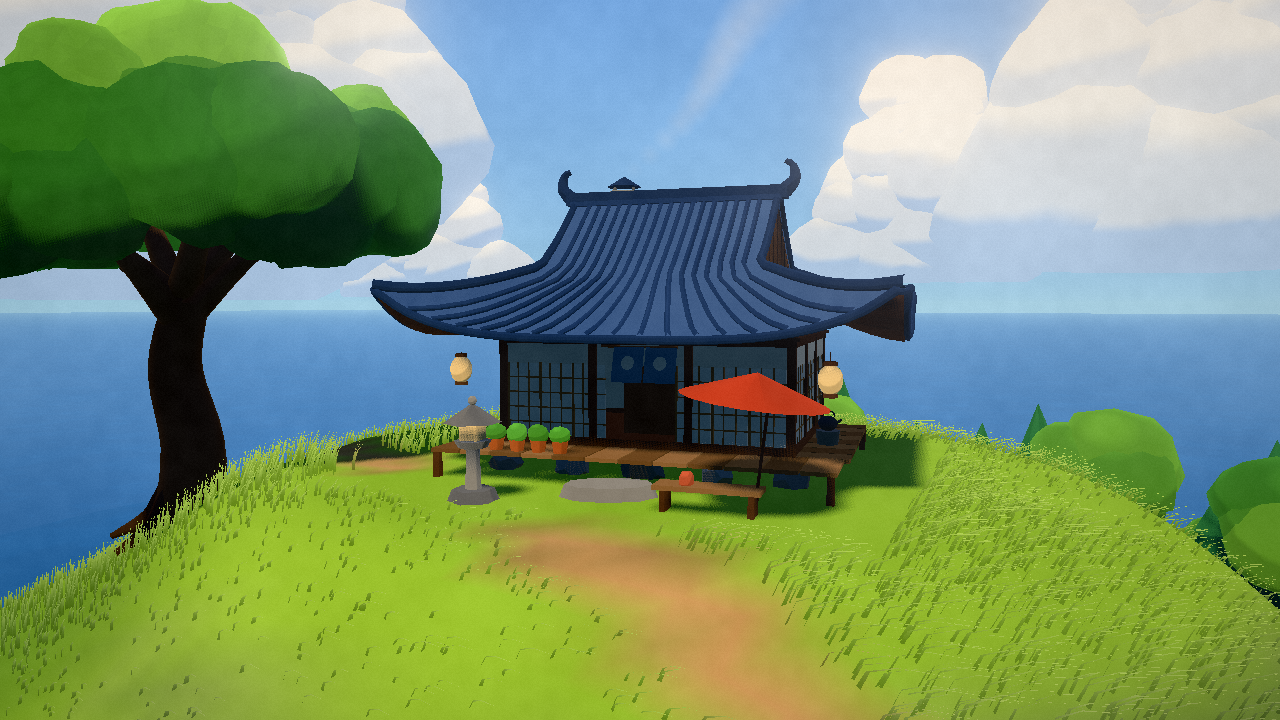
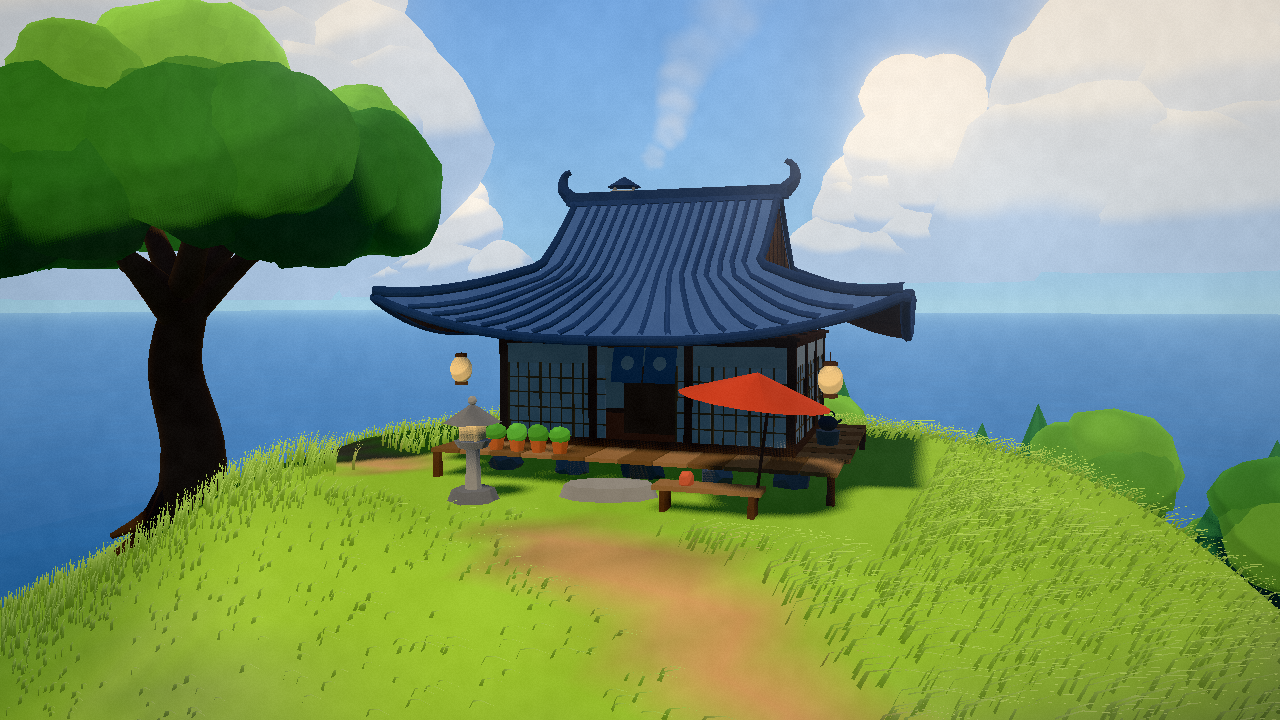
3D Phase 0: softer roof sweep, cleaner eave trim, soft clouds + smoke; fresh review shots

diff --git a/src/main.ts b/src/main.ts
@@ -132,21 +132,26 @@ import('./lib/geo').then(({ blob, paint, merge, place }) => {
 // chimney smoke: soft billboards rising and leaning with the wind
 const smokeTex = (() => {
   const c = document.createElement('canvas');
-  c.width = c.height = 64;
+  c.width = c.height = 128;
   const g = c.getContext('2d')!;
-  const grd = g.createRadialGradient(32, 32, 2, 32, 32, 30);
-  grd.addColorStop(0, 'rgba(255,255,255,0.9)');
-  grd.addColorStop(1, 'rgba(255,255,255,0)');
-  g.fillStyle = grd;
-  g.fillRect(0, 0, 64, 64);
+  // a soft cluster of overlapping puffs reads as smoke, a single radial blob reads as a light streak
+  const puffs: [number, number, number][] = [[64, 70, 34], [44, 58, 24], [84, 56, 26], [60, 42, 22], [78, 80, 20], [46, 82, 18]];
+  for (const [x, y, r] of puffs) {
+    const grd = g.createRadialGradient(x, y, r * 0.2, x, y, r);
+    grd.addColorStop(0, 'rgba(255,255,255,0.55)');
+    grd.addColorStop(1, 'rgba(255,255,255,0)');
+    g.fillStyle = grd;
+    g.fillRect(0, 0, 128, 128);
+  }
   return new THREE.CanvasTexture(c);
 })();
 const smoke: THREE.Sprite[] = [];
 const smokeOrigin = house.group.localToWorld(house.chimneyTop.clone());
-for (let i = 0; i < 18; i++) {
+for (let i = 0; i < 9; i++) {
   const m = new THREE.SpriteMaterial({ map: smokeTex, transparent: true, depthWrite: false, opacity: 0.5 });
   const s = new THREE.Sprite(m);
-  s.userData.phase = i / 18;
+  s.userData.phase = i / 9;
+  s.userData.jit = Math.random() * 2 - 1;
   smoke.push(s);
   scene.add(s);
 }
@@ -175,6 +180,7 @@ const presets: Record<string, [THREE.Vector3, THREE.Vector3]> = {
   porch: [new THREE.Vector3(HOUSE.x + 1.5, HOUSE.y + 1.7, HOUSE.z + 12.5), new THREE.Vector3(HOUSE.x + 0.5, HOUSE.y + 1.6, HOUSE.z + 2)],
   corner: [house.group.localToWorld(new THREE.Vector3(10.5, 6.2, 9.5)), house.group.localToWorld(new THREE.Vector3(5.2, 3.9, 3.8))],
   cornerlow: [house.group.localToWorld(new THREE.Vector3(9.5, 2.2, 9.0)), house.group.localToWorld(new THREE.Vector3(5.2, 3.9, 3.8))],
+  tip: [house.group.localToWorld(new THREE.Vector3(5.2, 3.6, 11.5)), house.group.localToWorld(new THREE.Vector3(5.6, 4.1, 4.6))],
 };
 HERO_TREE.y = heightAt(HERO_TREE.x, HERO_TREE.z);
 presets.tree = [new THREE.Vector3(HERO_TREE.x + 13, HERO_TREE.y + 3, HERO_TREE.z + 17), new THREE.Vector3(HERO_TREE.x - 4, HERO_TREE.y + 5.5, HERO_TREE.z - 2)];
@@ -239,10 +245,11 @@ function frame(dt: number) {
   // smoke
   for (const sp of smoke) {
     const t = (sp.userData.phase + clock * 0.06) % 1;
-    sp.position.copy(smokeOrigin).add(tmp.set(t * 5 * wind + Math.sin(t * 9 + clock) * 0.3, t * 7, t * 1.5));
-    const sz = 0.5 + t * 2.2;
+    sp.position.copy(smokeOrigin).add(tmp.set(t * 3.5 * wind + Math.sin(t * 6 + clock * 0.7) * 0.5 + sp.userData.jit * t * 0.8, t * 6, t * 1.2 + sp.userData.jit * 0.3));
+    const sz = 0.9 + t * 3.6;
     sp.scale.set(sz, sz, 1);
-    (sp.material as THREE.SpriteMaterial).opacity = Math.sin(t * Math.PI) * 0.28 * (1 - t * 0.5);
+    (sp.material as THREE.SpriteMaterial).opacity = Math.min(1, t * 6) * (1 - t) * 0.55;
+    (sp.material as THREE.SpriteMaterial).rotation = sp.userData.jit * 2 + t * 0.8;
     (sp.material as THREE.SpriteMaterial).color.copy(s.cloudLit).lerp(s.ambientSky, 0.3);
   }
 

diff --git a/src/models/teahouse.ts b/src/models/teahouse.ts
@@ -151,7 +151,7 @@ export function createTeaHouse(): TeaHouse {
   const hz = (v: number) => RD * (1 - v);
   const Y = (v: number) => eaveY + (ridgeY - eaveY) * Math.pow(v, 1.35);
   // corner sweep: tips curl up, and the hip line still rises monotonically to the ridge
-  const lift = (u: number, v: number) => Math.pow(Math.abs(u), 4) * Math.pow(1 - v, 2.2) * 1.1;
+  const lift = (u: number, v: number) => Math.pow(Math.abs(u), 2.6) * Math.pow(1 - v, 2.0) * 0.95;
   const P = (f: Face, u: number, v: number, off = 0) => {
     const y = Y(v) + lift(u, v) + off;
     switch (f) {
@@ -191,12 +191,12 @@ export function createTeaHouse(): TeaHouse {
   for (const f of ['front', 'back'] as const) {
     const flip = outward(f);
     roofParts.push(paint(surface(f, 0, 1, 0, flip), COL.roof));
-    roofDark.push(paint(surface(f, 0, 1, -0.14, !flip), COL.timber)); // underside
+    roofDark.push(paint(surface(f, 0, 1, -0.1, !flip), '#3b2a22')); // underside (dark rafters)
   }
   for (const f of ['left', 'right'] as const) {
     const flip = outward(f);
     roofParts.push(paint(surface(f, 0, GABLE, 0, flip), COL.roof));
-    roofDark.push(paint(surface(f, 0, GABLE, -0.14, !flip), COL.timber));
+    roofDark.push(paint(surface(f, 0, GABLE, -0.1, !flip), '#3b2a22'));
     // vertical gable: warm timber with vertical slats
     const gable = surface(f, GABLE, 1, -0.05, outward(f, 0.75));
     solid.push(paint(gable, COL.timberLight));
@@ -235,8 +235,8 @@ export function createTeaHouse(): TeaHouse {
   // eave fascia: a closed loop around the whole roof edge
   {
     const loop: THREE.Vector3[] = [];
-    for (const f of ['front', 'right', 'back', 'left'] as const) for (let i = 0; i < 16; i++) loop.push(P(f, (i / 16) * 2 - 1, 0, -0.02));
-    const g = new THREE.TubeGeometry(new THREE.CatmullRomCurve3(loop, true, 'centripetal'), 128, 0.1, 5, true);
+    for (const f of ['front', 'right', 'back', 'left'] as const) for (let i = 0; i < 24; i++) loop.push(P(f, (i / 24) * 2 - 1, 0, -0.05));
+    const g = new THREE.TubeGeometry(new THREE.CatmullRomCurve3(loop, true, 'chordal'), 256, 0.11, 6, true);
     roofDark.push(paint(g, COL.roofRidge));
   }
   // main ridge + upturned end ornaments

diff --git a/src/world/clouds.ts b/src/world/clouds.ts
@@ -1,5 +1,5 @@
 import * as THREE from 'three';
-import { blob, merge, place } from '../lib/geo';
+import { blob, merge, place, sphereNormals } from '../lib/geo';
 import { mergeVertices } from 'three/addons/utils/BufferGeometryUtils.js';
 import { mulberry32 } from '../lib/noise';
 import type { DayState } from './daylight';
@@ -70,7 +70,7 @@ export function createClouds(count = 16) {
       const rad = (1 - t * 0.7) * size * 0.75 * rand();
       const r = size * (0.32 + rand() * 0.22) * (1 - t * 0.35);
       const y = t * size * tall * 1.1 + r * 0.3;
-      const g = blob(r, 2, 0.18, rand() * 100, 0.9);
+      const g = blob(r, 3, 0.16, rand() * 100, 0.9);
       place(g, Math.cos(ang) * rad, y, Math.sin(ang) * rad * 0.6);
       parts.push(g);
     }
@@ -87,6 +87,7 @@ export function createClouds(count = 16) {
     }
     geo.setAttribute('aH', new THREE.BufferAttribute(hAttr, 1));
     geo.computeVertexNormals();
+    sphereNormals(geo, new THREE.Vector3(0, maxY * 0.35, 0), 0.45);
     const mesh = new THREE.Mesh(geo, mat);
     const angle = (i / count) * Math.PI * 2 + rand() * 0.3;
     const dist = 900 + rand() * 600;
